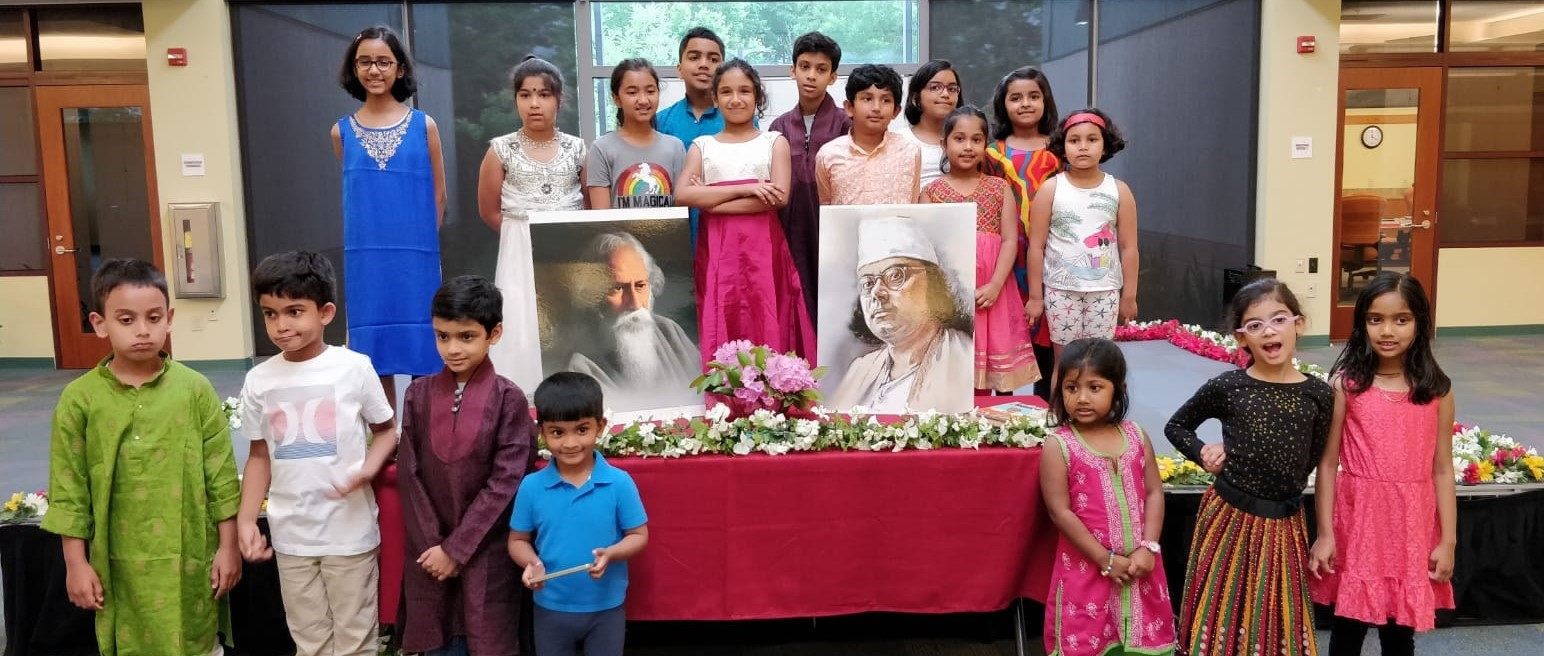
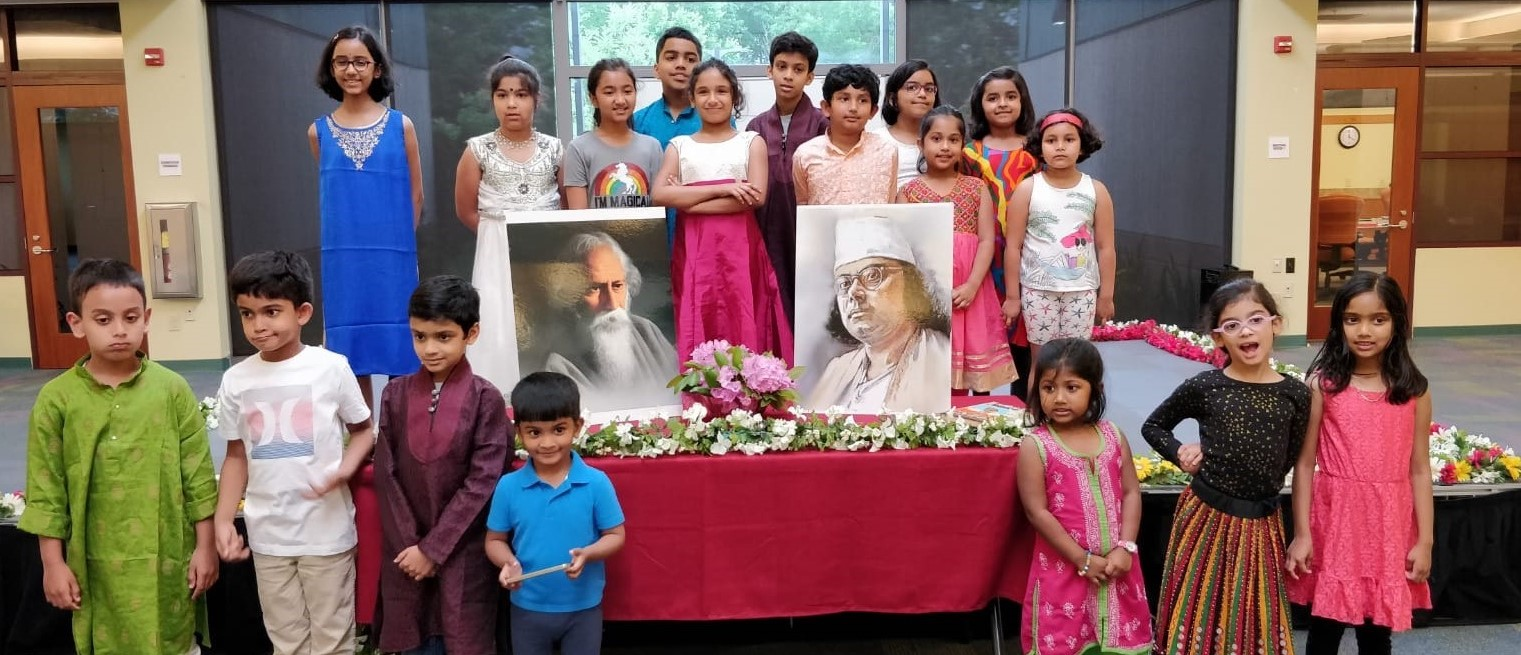
Updates

diff --git a/pages/events.html b/pages/events.html
@@ -12,17 +12,6 @@
     <hr class="featurette-divider">
 
     <div class="row featurette">
-        <h2 class="featurette-heading">Highlights</h2>
-    </div>
-    <div class="row featurette">
-        <p class="lead">
-            Our past highlights include performing at North American Bengali Conference (NABC) 2010 in Atlantic City, Milan Mela 2012
-            and 2014, UTSOV&#39;s Durga Pujas, Princeton Public Library 2015, and the Asian American Heritage Festival 2016.</p>
-    </div>
-
-    <hr class="featurette-divider">
-
-    <div class="row featurette">
         <h2 class="featurette-heading">Annual Events</h2>
     </div>
     <div class="row featurette">
@@ -66,7 +55,9 @@
                 </b>- October 13th, 2019
                 <br>
                 <br>
-                <b>Kali Puja </b>- Saturday, November 2, 2019
+                <b>
+                    <a href="https://www.facebook.com/events/480350559470572/">Kali Puja</a>
+                </b>- Saturday, November 16, 2019
                 <br>
                 <br>
                 <b>Holiday Party </b>- December, 2019
@@ -96,6 +87,16 @@
             </div>
         </div>
     </div>
+    <hr class="featurette-divider">
+
+    <div class="row featurette">
+        <h2 class="featurette-heading">Highlights</h2>
+    </div>
+    <div class="row featurette">
+        <p class="lead">
+            Our past highlights include performing at North American Bengali Conference (NABC) 2010 in Atlantic City, Milan Mela 2012
+            and 2014, UTSOV&#39;s Durga Pujas, Princeton Public Library 2015, and the Asian American Heritage Festival 2016.</p>
+    </div>
 
     <hr class="featurette-divider" id="classes">
     <div class="row featurette">
@@ -108,12 +109,12 @@
             Bengali Classes! (April 6-June 15)
             <br>
             <br>
-            <a target="_blank" href="https://apm.activecommunities.com/plainsboronj/Activity_Search/bengali-heritage-class/4625">Join us for Spring Bengali Classes!</a>
-            <i>(April 6 - June 15)</i>
+            <a target="_blank" href="https://apm.activecommunities.com/plainsboronj/Activity_Search/bengali-heritage-class/4841">Join us for Fall Bengali Classes!</a>
+            <i>(September 22 - December 1)</i>
             <br>
-            <br> Chairwoman and Language Instructor Meena Dam teaches an additional class with more intense focus on language
-            every other week in Bucks County, PA. We also have quarterly steering and financial meetings of all student leaders
-            along with adult members and teachers.
+            <br> A BKPA Instructor also teaches an additional class with more intense focus on language every other week in Bucks
+            County, PA. We also have quarterly steering and financial meetings of all student leaders along with adult members
+            and teachers.
         </p>
     </div>
     <div class="row featurette">
@@ -150,7 +151,8 @@
                 <br/>
                 <br/>
                 <b>Officers:</b>
-                <br/> Aabir Barerjee, Shalin Banerjee, Pratyush Chakraborty, Sayan Shuvra Chakraborty, Biswajoy Mazumdar, Arush Sanbui
+                <br/> Aabir Barerjee, Shalin Banerjee, Pratyush Chakraborty, Sayan Shuvra Chakraborty, Biswajoy Mazumdar, Arush
+                Sanbui
                 <br/>
                 <br/>
                 <b>Website:</b>
@@ -160,13 +162,13 @@
         <div class="col-md-3" style="margin: 2%">
             <p class="lead">
                 <b>Staff:</b>
-                <br/> Aarohi Banerjee, Anish Bhattacharya, Amolika Chatterjee, Ishani Chowdhury, Ayan Das, Arin Dutta, Krittika Dutta,
-                Arush Kundu, Bipasha Mazumdar, Ayushee Mukhopadhyay, Atri Ojha, Nidhi Pramanik, Akansha Purkayastha,
+                <br/> Aarohi Banerjee, Anish Bhattacharya, Amolika Chatterjee, Ishani Chowdhury, Ayan Das, Arin Dutta, Krittika
+                Dutta, Arush Kundu, Bipasha Mazumdar, Ayushee Mukhopadhyay, Atri Ojha, Nidhi Pramanik, Akansha Purkayastha,
                 Udita Ray, Aaryaan Roy, Swarnab Roy, Mia Saha, Raj Saha, Rishi Sanbui
                 <br/>
                 <br/>
                 <b>Assistants:</b>
-                <br/> Anika Bandyopadhyay, Anjelika Banerjee, Agniv Chatterjee, Kavisha Dutta, Anjali Mukhopadhyay, Eshan Ojha, 
+                <br/> Anika Bandyopadhyay, Anjelika Banerjee, Agniv Chatterjee, Kavisha Dutta, Anjali Mukhopadhyay, Eshan Ojha,
                 Jason Roy
             </p>
         </div>

diff --git a/pages/main.html b/pages/main.html
@@ -9,7 +9,7 @@
     </ol>
     <div class="carousel-inner">
         <div class="carousel-item active">
-            <img src="./images/BKPA Website Photos/museum.jpg" class="d-block w-100" alt="...">
+            <img src="./images/BKPA Website Photos/museum.jpg" class="d-block w-100" alt="..." style="object-fit: contain">
             <div class="carousel-caption d-none d-md-block">
                 <h1>The Bengali Kids of Princeton Area</h1>
             </div>
@@ -18,13 +18,13 @@
             <img src="./images/BKPA Website Photos/stageleadership.jpg" class="d-block w-100" alt="...">
         </div>
         <div class="carousel-item">
-            <img src="./images/BKPA Website Photos/noboborshokids.jpg" class="d-block w-100" alt="...">
+            <img src="./images/BKPA Website Photos/noboborshokids.jpg" class="d-block w-100" alt="..." style="object-fit: contain">
         </div>
         <div class="carousel-item">
             <img src="./images/BKPA Website Photos/subhonoboborsho.jpg" class="d-block w-100" alt="...">
         </div>
         <div class="carousel-item">
-            <img src="./images/BKPA Website Photos/pujokids.jpg" class="d-block w-100" alt="...">
+            <img src="./images/BKPA Website Photos/pujokids.jpg" class="d-block w-100" alt="..." style="object-fit: contain">
         </div>
         <div class="carousel-item">
             <img src="./images/BKPA Website Photos/waterpark.jpg" class="d-block w-100" alt="...">
@@ -45,8 +45,10 @@
     <div class="row featurette">
         <h2 class="featurette-heading">About us</h2>
         <p class="lead">
-            The Bengali Kids of Princeton Area (BKPA) is a volunteer-run organization for kids between the ages of 5 and 17. Our programs
-            are generated by and focused on kids.
+            The Bengali Kids of Princeton Area - BKPA - are a group of children all ages dedicated to learning about and sharing our Bengali
+            heritage and being active members of our local and global communities. To these ends, BKPA has four branches:
+            Educational, Charitable, Literary, and Cultural. We host events, classes, fundraisers, and more to further these
+            goals. A volunteer-run organization for kids between the ages of 5 and 17, our programs are generated by and focused on kids.
             <br>
             <br> As American Bengali Kids, we engage in lifelong pursuit of learning, give back to our local and global communities,
             and learn about our Bengali heritage while continuing the legacy of our rich culture. Our goals are to learn
@@ -118,7 +120,7 @@
                 <b>Literary</b>
             </div>
             <ul>
-                <li>Annual Literary Magazine</li>
+                <li><a href="Media/Magazines/BKPAEMagazine2018.pdf">Annual Literary Magazine</a></li>
                 <li>Book Publishing</li>
                 <li>Workbooks and event program texts</li>
             </ul>

diff --git a/index.html b/index.html
@@ -22,7 +22,7 @@
         }
 
         .carousel img {
-            max-height: 85vh;
+            max-height: 65vh;
             width: 100%;
             height: 100%;
             object-fit: cover;
@@ -38,14 +38,14 @@
 <body>
     <nav class="navbar navbar-expand-lg navbar-dark breaker-nav" style="background-color: #d34615">
         <a class="navbar-brand" href="/">
-            <img class="icon" src="images/BKPALogo.PNG" style="max-width:50px">
+            <img class="icon" src="images/BKPALogo.PNG" style="max-width:65px">
         </a>
         <button class="navbar-toggler" type="button" data-toggle="collapse" data-target="#navbarsExample05" aria-controls="navbarsExample05"
             aria-expanded="false" aria-label="Toggle navigation">
             <span class="navbar-toggler-icon"></span>
         </button>
 
-        <div class="collapse navbar-collapse" id="navbarsExample05">
+        <div class="collapse navbar-collapse" id="navbarsExample05" style="font-size: 18px">
             <ul class="navbar-nav mr-auto">
                 <li class="nav-item active">
                     <a class="nav-link" href="#about" onclick="setpage('index')">About Us</a>

diff --git a/pages/gives.html b/pages/gives.html
@@ -1,7 +1,7 @@
 <div id="carousel" class="carousel slide" data-ride="carousel">
     <div class="carousel-inner">
         <div class="carousel-item active">
-            <img src="./images/BKPA Website Photos/poets.jpg" class="d-block w-100" alt="...">
+            <img src="./images/BKPA Website Photos/poets.jpg" class="d-block w-100" alt="..." style="object-fit: contain">
             <div class="carousel-caption d-none d-md-block">
                 <h1>BKPA Gives</h1>
             </div>

diff --git a/js/main.js b/js/main.js
@@ -1,6 +1,6 @@
 var links = {
-    "index": "pages/index.html",
-    "about": "pages/index.html",
+    "index": "pages/main.html",
+    "about": "pages/main.html",
     "events": "pages/events.html",
     "classes": "pages/events.html#classes",
     "gives" : "pages/gives.html",
